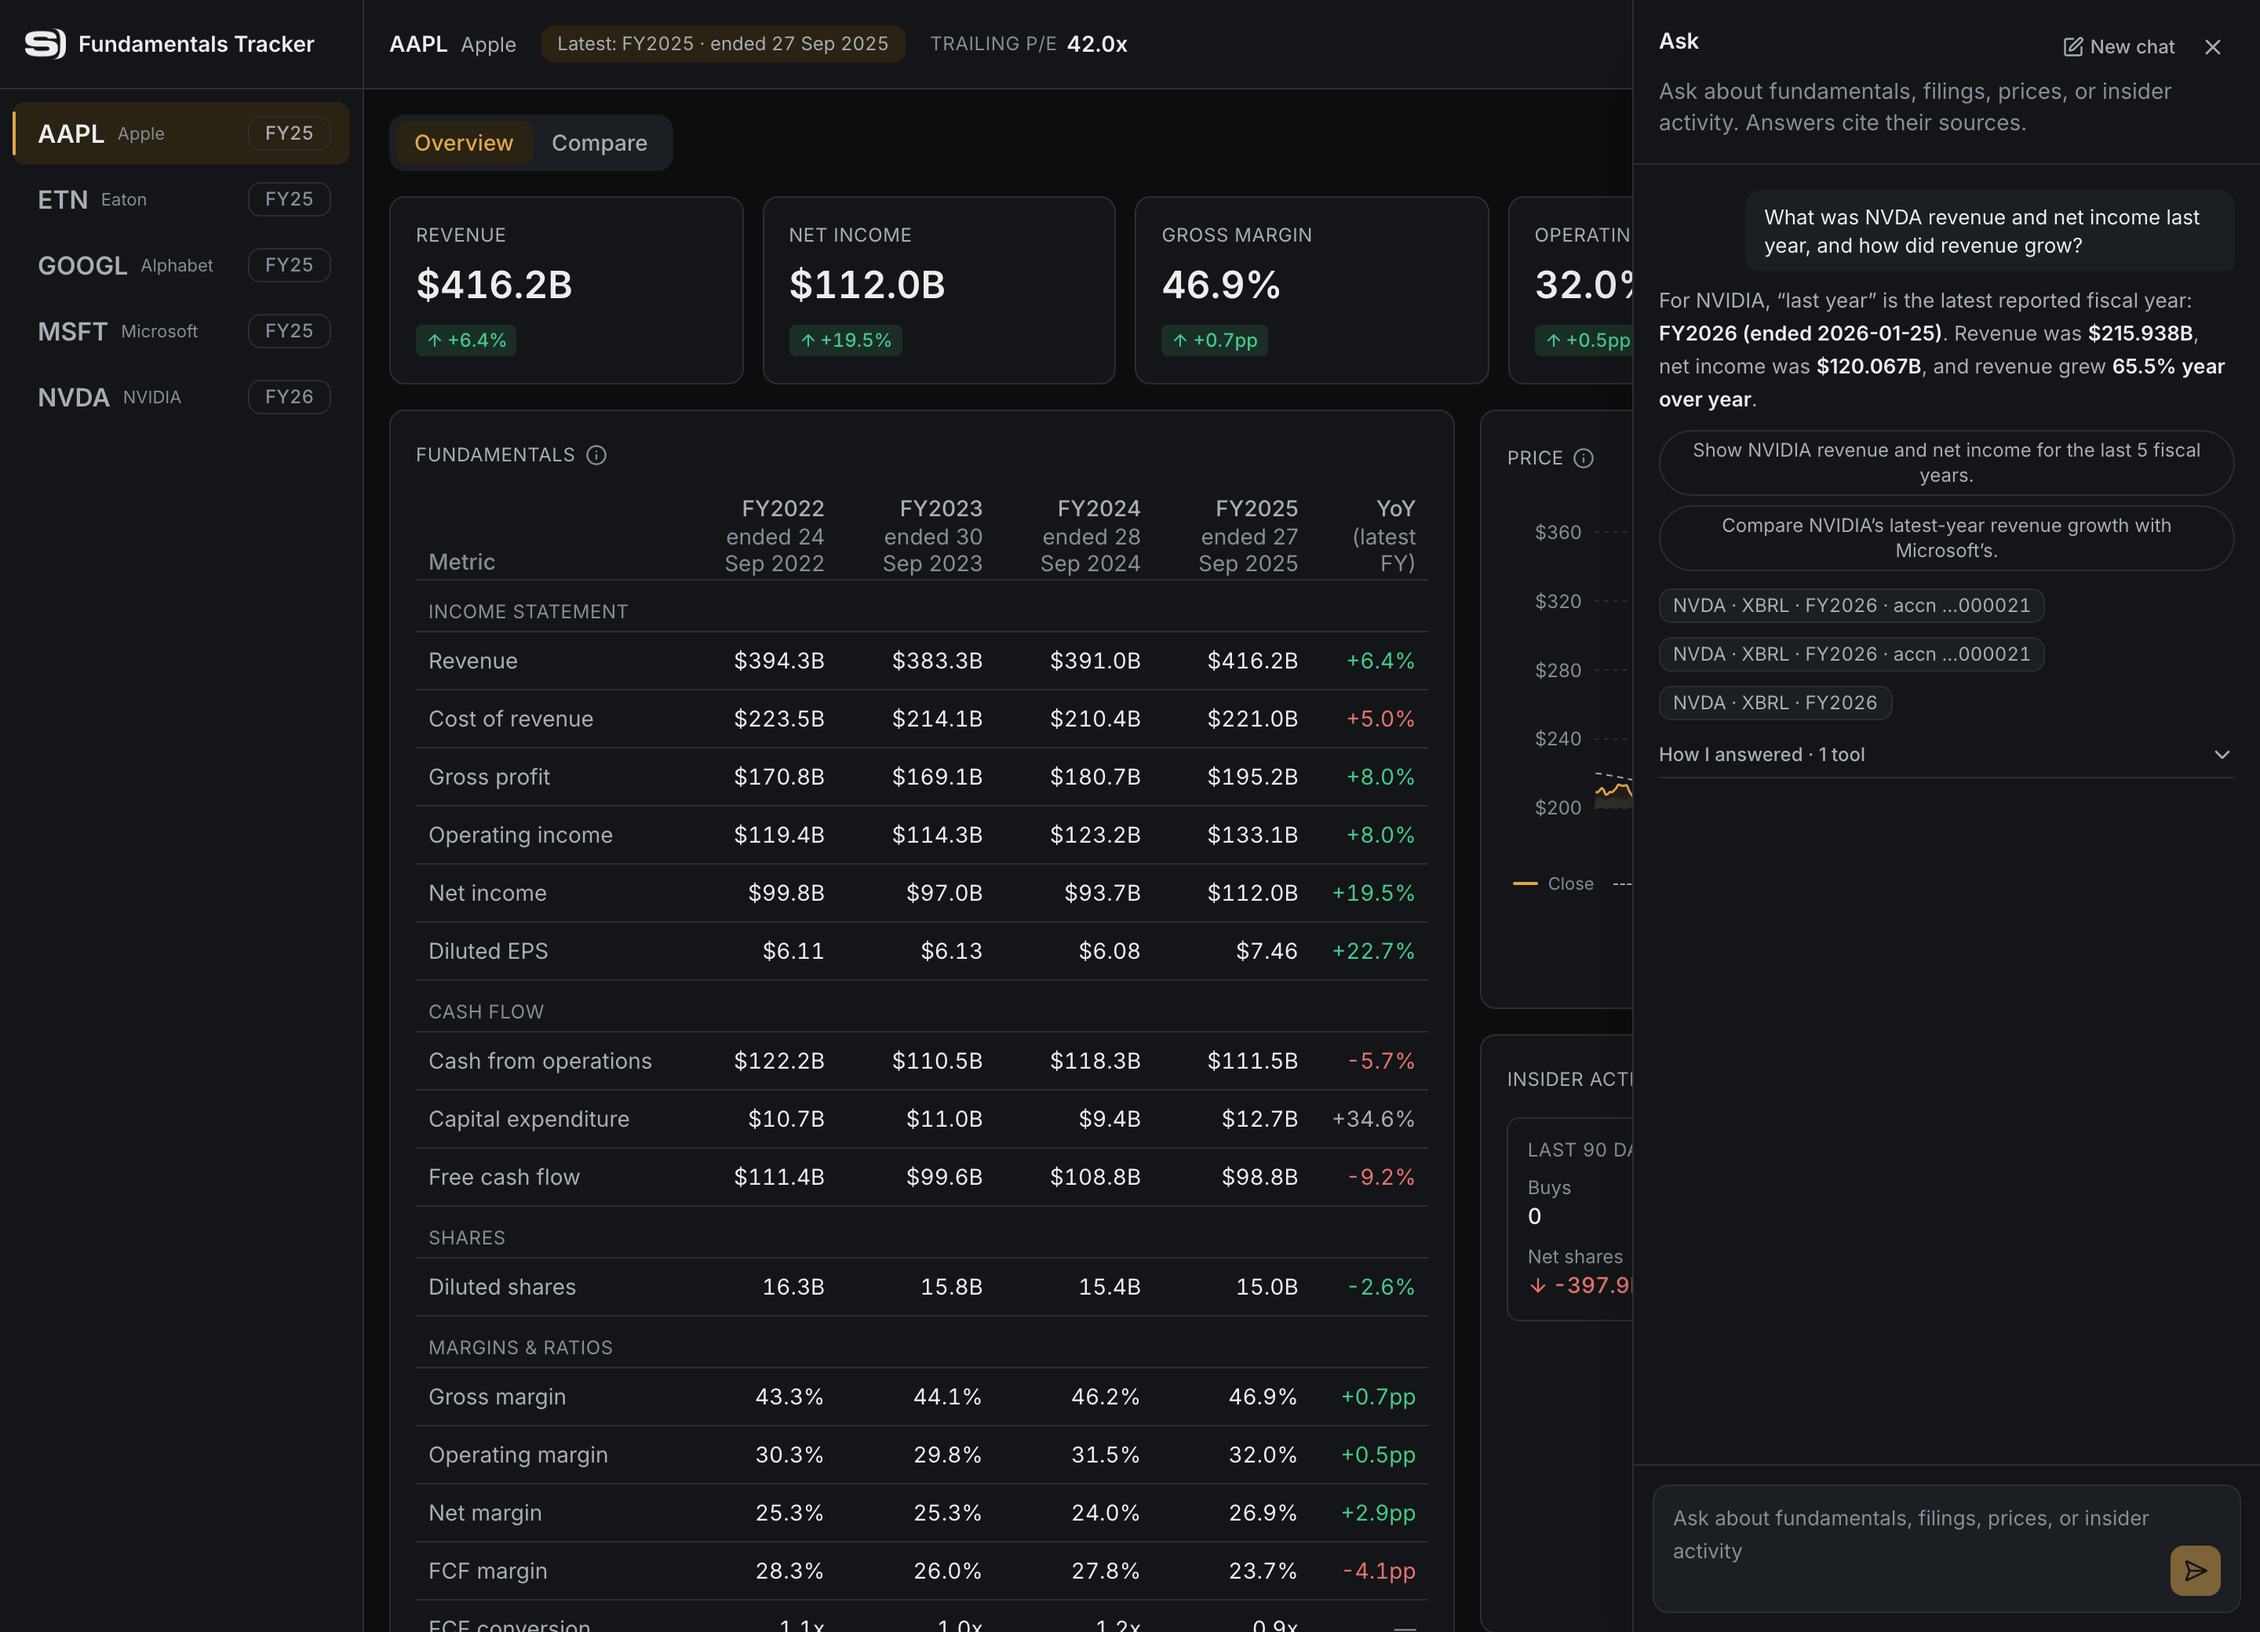
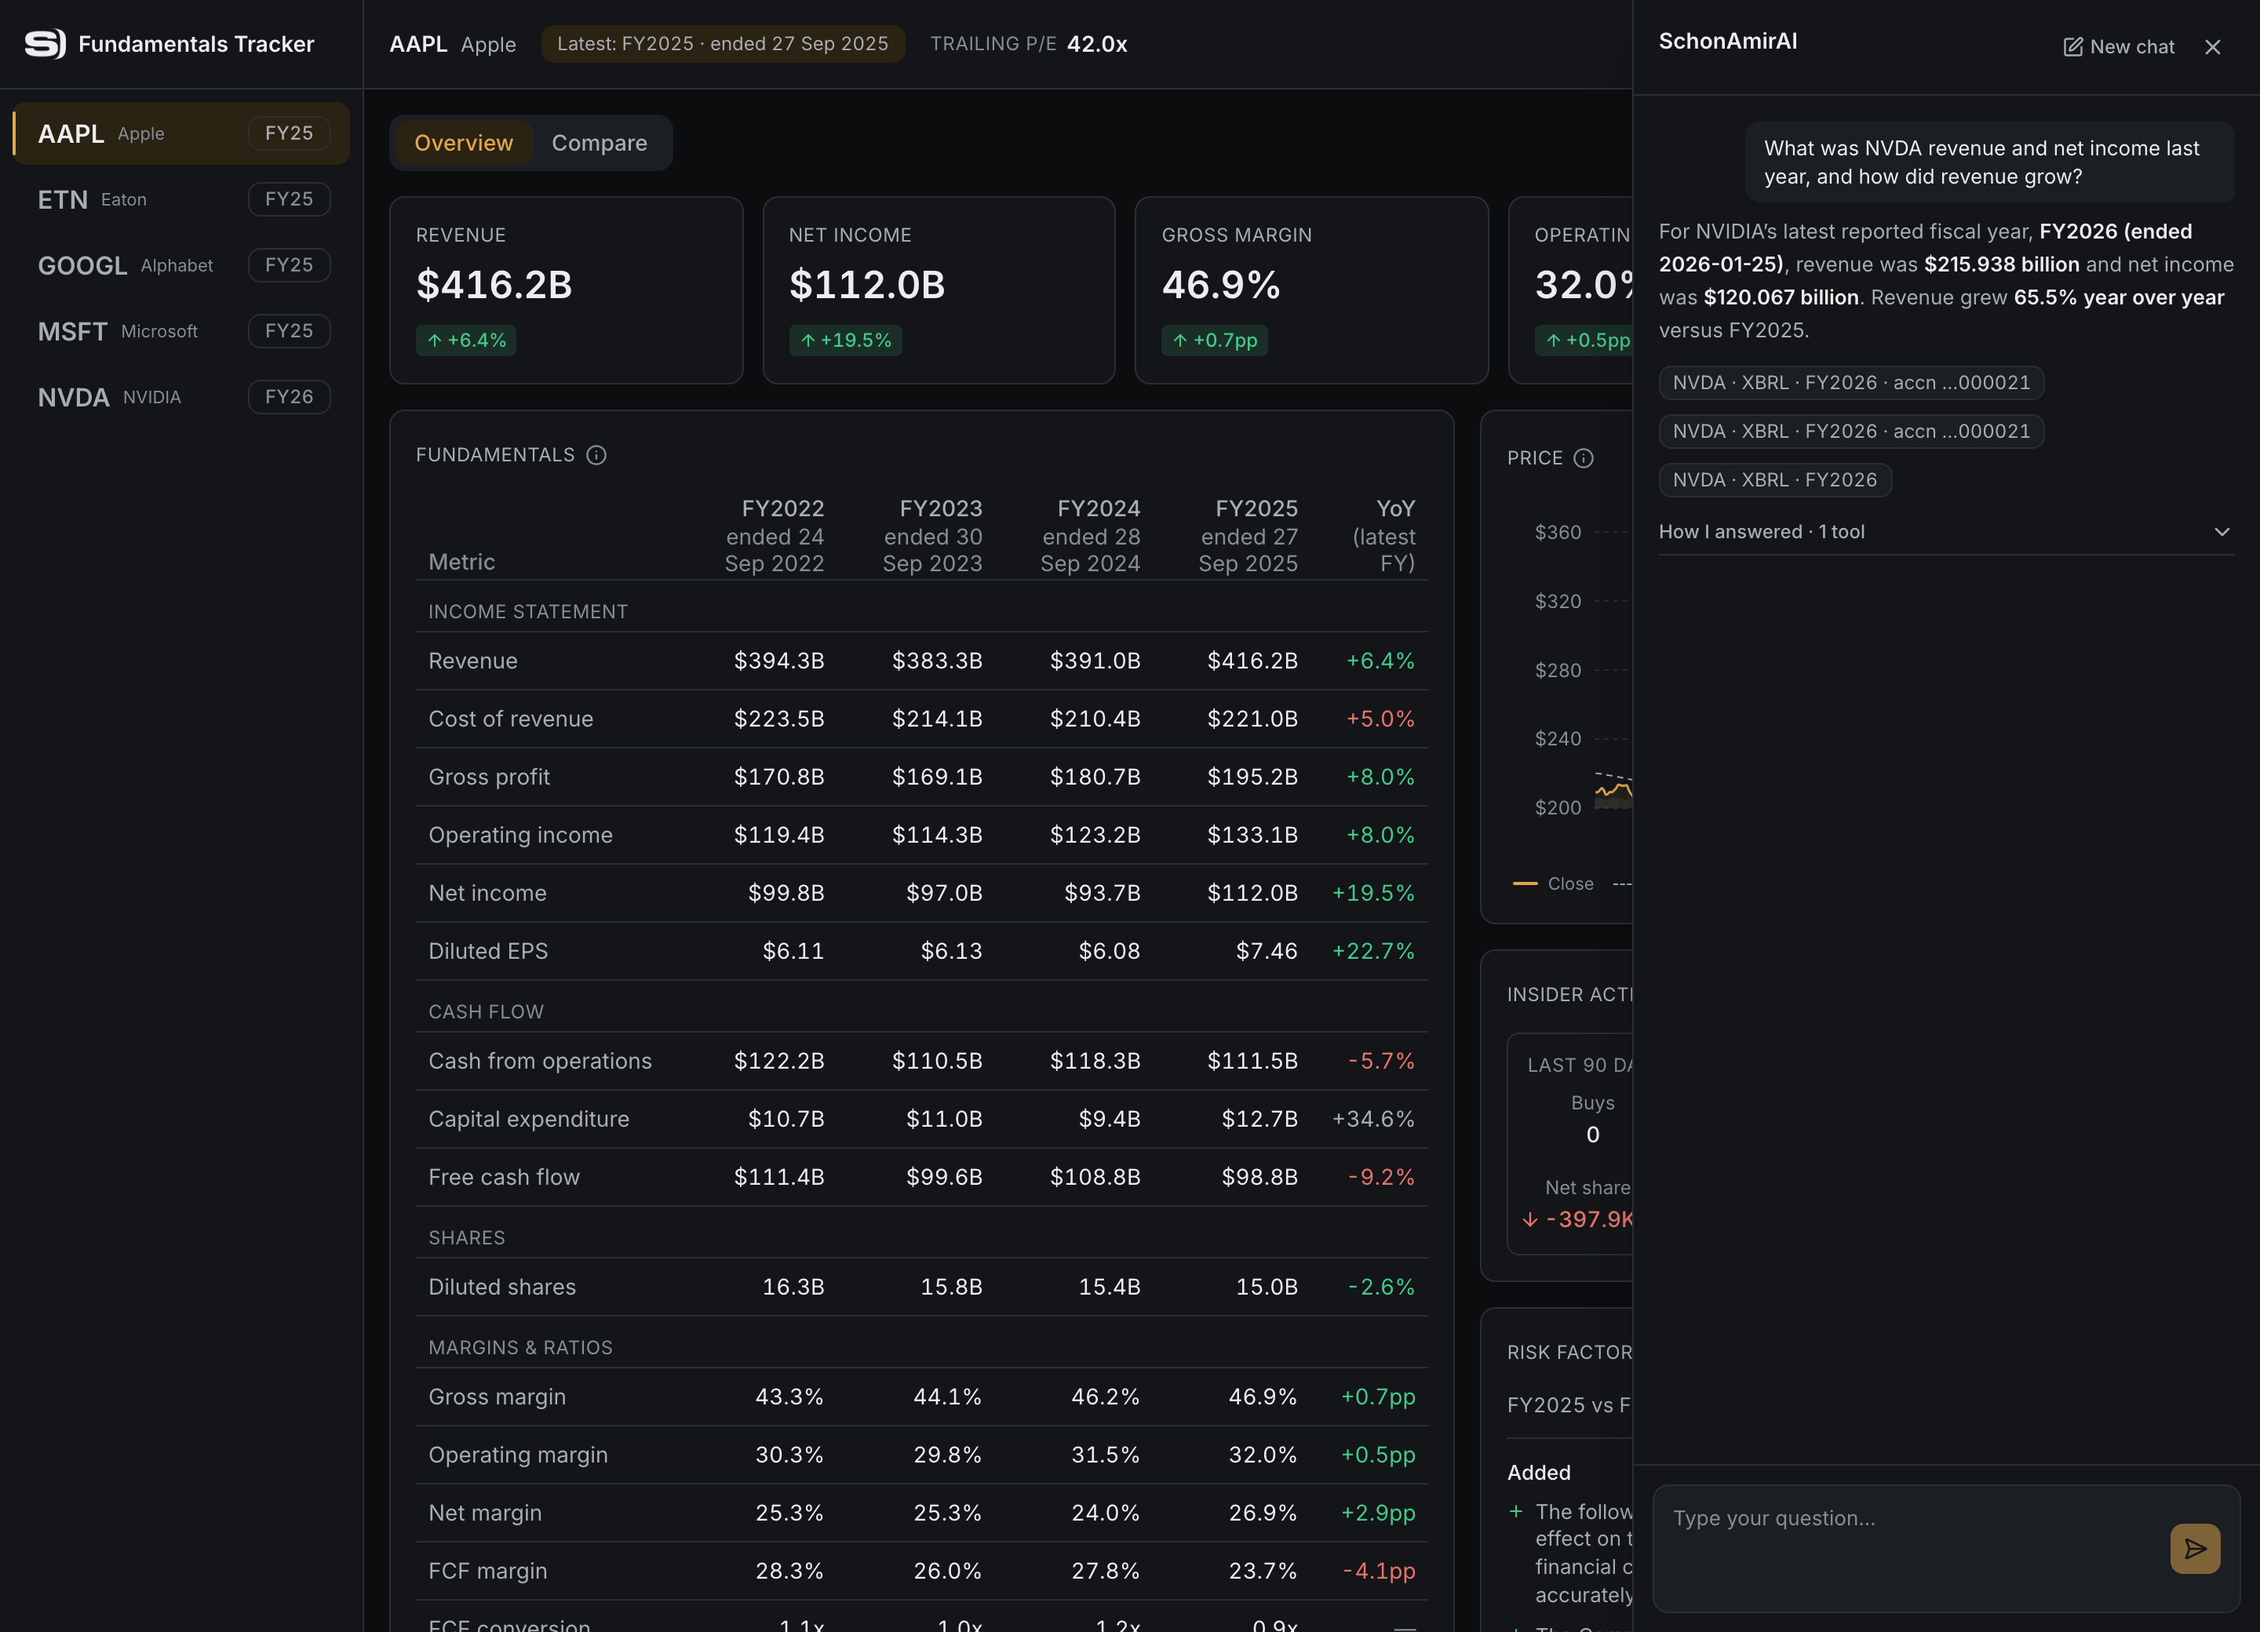
feat: rebrand q&a panel to schonamirai, refine input

diff --git a/frontend/src/components/QAPanel.tsx b/frontend/src/components/QAPanel.tsx
@@ -60,7 +60,7 @@ export function QAPanel({
           <SheetHeader className="space-y-1 border-b border-border p-4 text-left">
             <div className="flex items-start justify-between gap-2">
               <SheetTitle className="text-sm font-semibold text-fg-1">
-                Ask
+                SchonAmirAI
               </SheetTitle>
               <div className="flex shrink-0 items-center gap-1">
                 <button
@@ -80,7 +80,9 @@ export function QAPanel({
                 </SheetClose>
               </div>
             </div>
-            <SheetDescription className="text-13 text-fg-3">
+            {/* Kept for screen readers (Radix needs a description) but hidden — the placeholder and the
+                example chips already tell a sighted user what to ask. */}
+            <SheetDescription className="sr-only">
               Ask about fundamentals, filings, prices, or insider activity.
               Answers cite their sources.
             </SheetDescription>

diff --git a/frontend/src/components/qa/ChatInput.tsx b/frontend/src/components/qa/ChatInput.tsx
@@ -38,7 +38,7 @@ export function ChatInput({
   };
 
   return (
-    <div className="flex items-end gap-2 rounded-lg border border-border bg-surface-2 px-3 py-2.5 focus-within:ring-2 focus-within:ring-ring">
+    <div className="flex items-center gap-2 rounded-lg border border-border bg-surface-2 px-3 py-2.5 focus-within:ring-2 focus-within:ring-ring">
       <textarea
         ref={ref}
         rows={2}
@@ -49,7 +49,7 @@ export function ChatInput({
           grow(e.target);
         }}
         onKeyDown={onKeyDown}
-        placeholder="Ask about fundamentals, filings, prices, or insider activity"
+        placeholder="Type your question…"
         aria-label="Ask a question"
         // Taller default (min-h) with a larger cap; the internal scrollbar is hidden so it stays clean
         // next to the send button (Enter sends before it ever needs to scroll far anyway).

diff --git a/frontend/src/components/TopBar.tsx b/frontend/src/components/TopBar.tsx
@@ -91,7 +91,7 @@ export function TopBar({
           </div>
           <Button size="sm" onClick={onAskClick}>
             <MessageSquareText className="size-4" aria-hidden />
-            Ask
+            Ask SchonAmirAI
           </Button>
         </div>
       </div>
